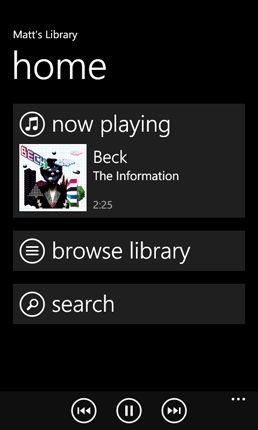
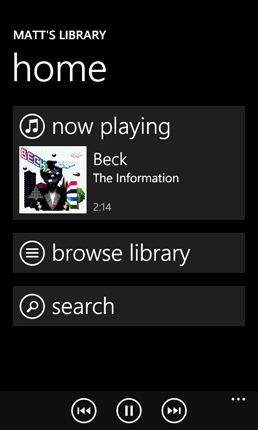
Updating screen shots for v1.1

diff --git a/web/template/header.php b/web/template/header.php
@@ -31,8 +31,7 @@ var clear="http://komodex.com/wordpress/wp-content/themes/komodex/images/clear.g
 	<div class="phonepreview unitPng" id="phone">
 		<div id="s1" class="phoneimageslide">
 			<img src="/images/ss/01.png" />
-			<!-- <img src="/images/ss/02.png" style="display:none;" /> -->
-			<img src="/images/ss/02b.png" style="display:none;" />
+			<img src="/images/ss/02.png" style="display:none;" />
 			<img src="/images/ss/03.png" style="display:none;" />
 			<img src="/images/ss/04.png" style="display:none;" />
 			<img src="/images/ss/05.png" style="display:none;" />
